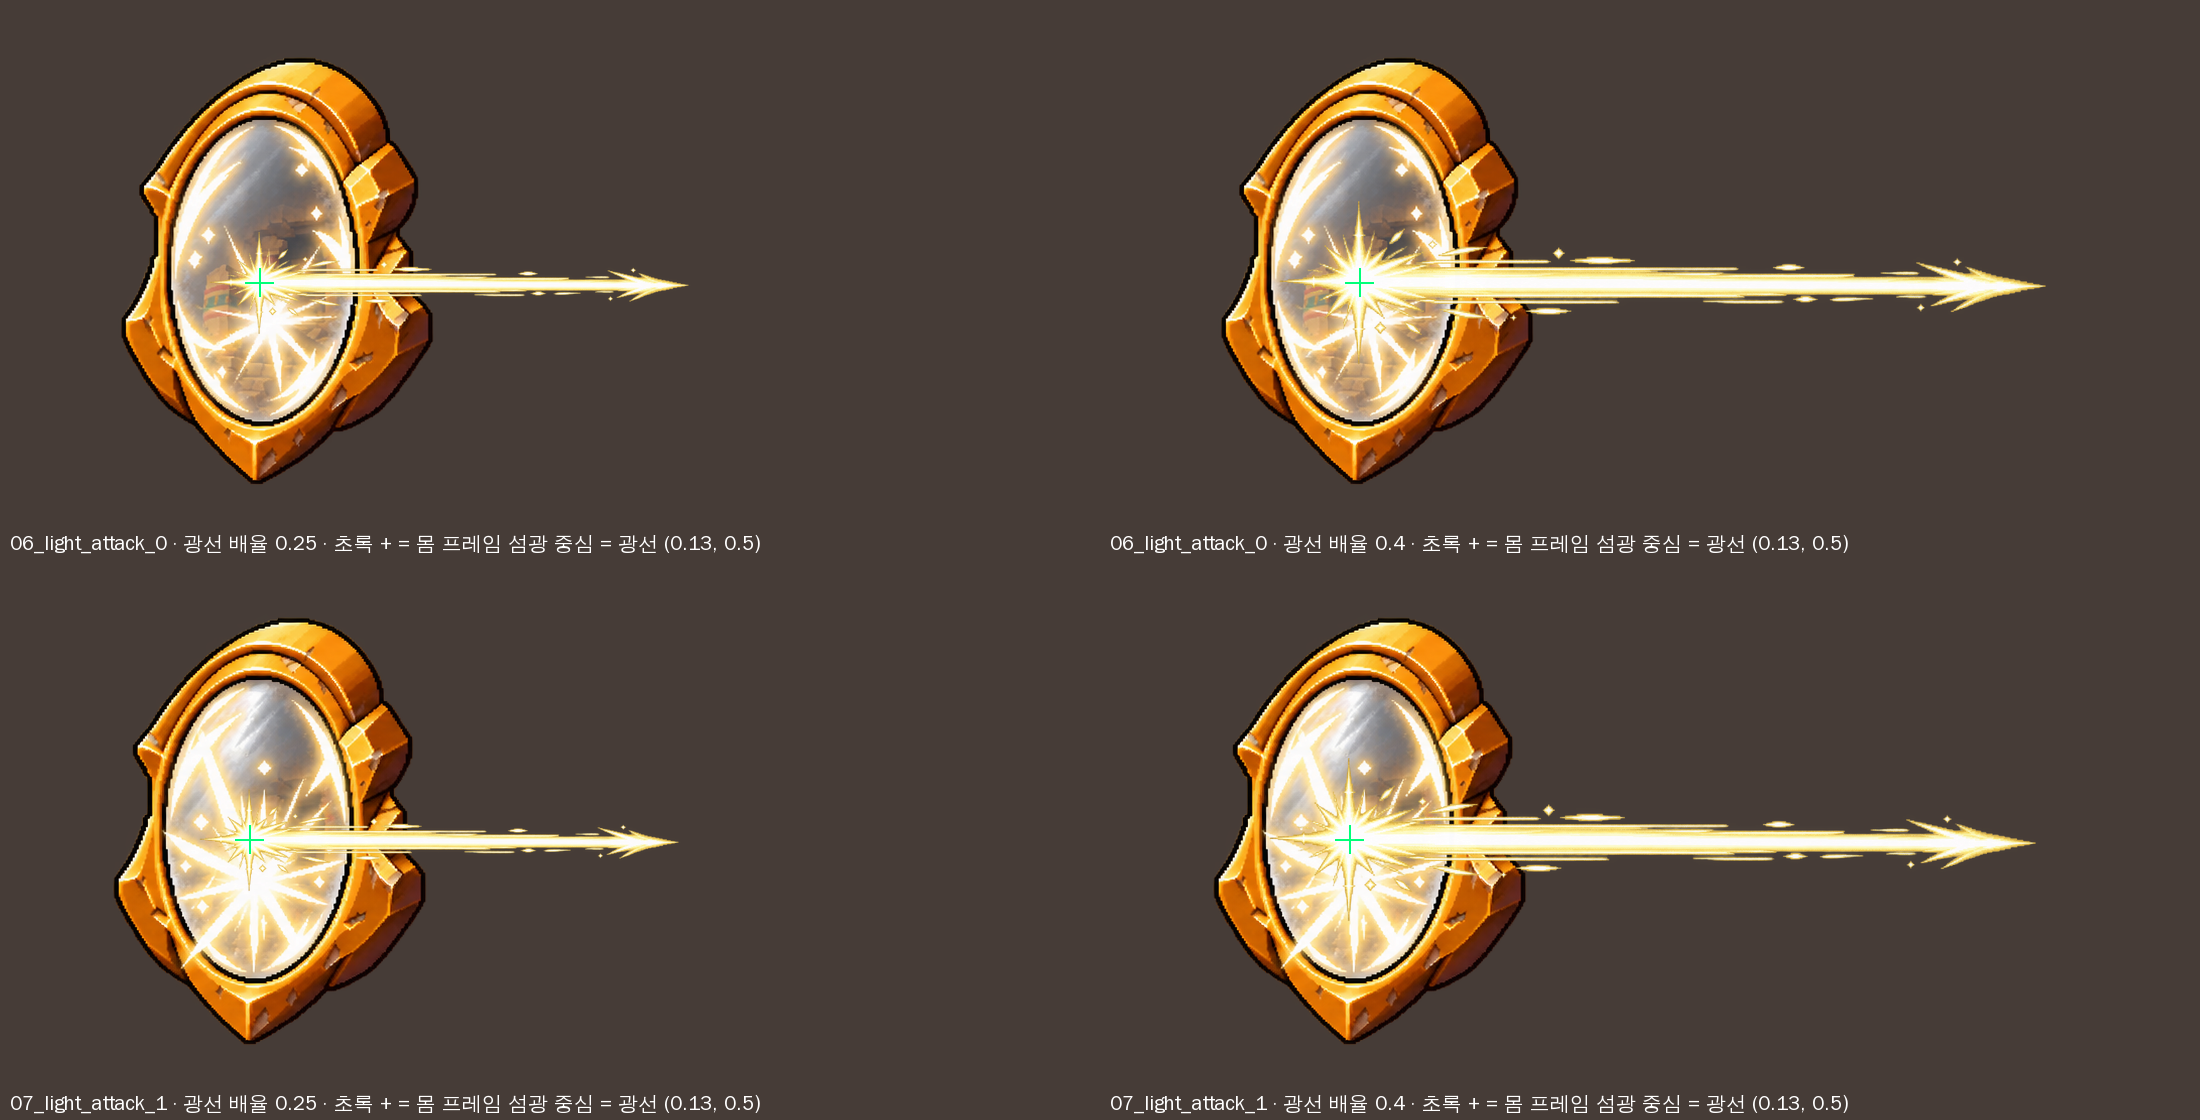
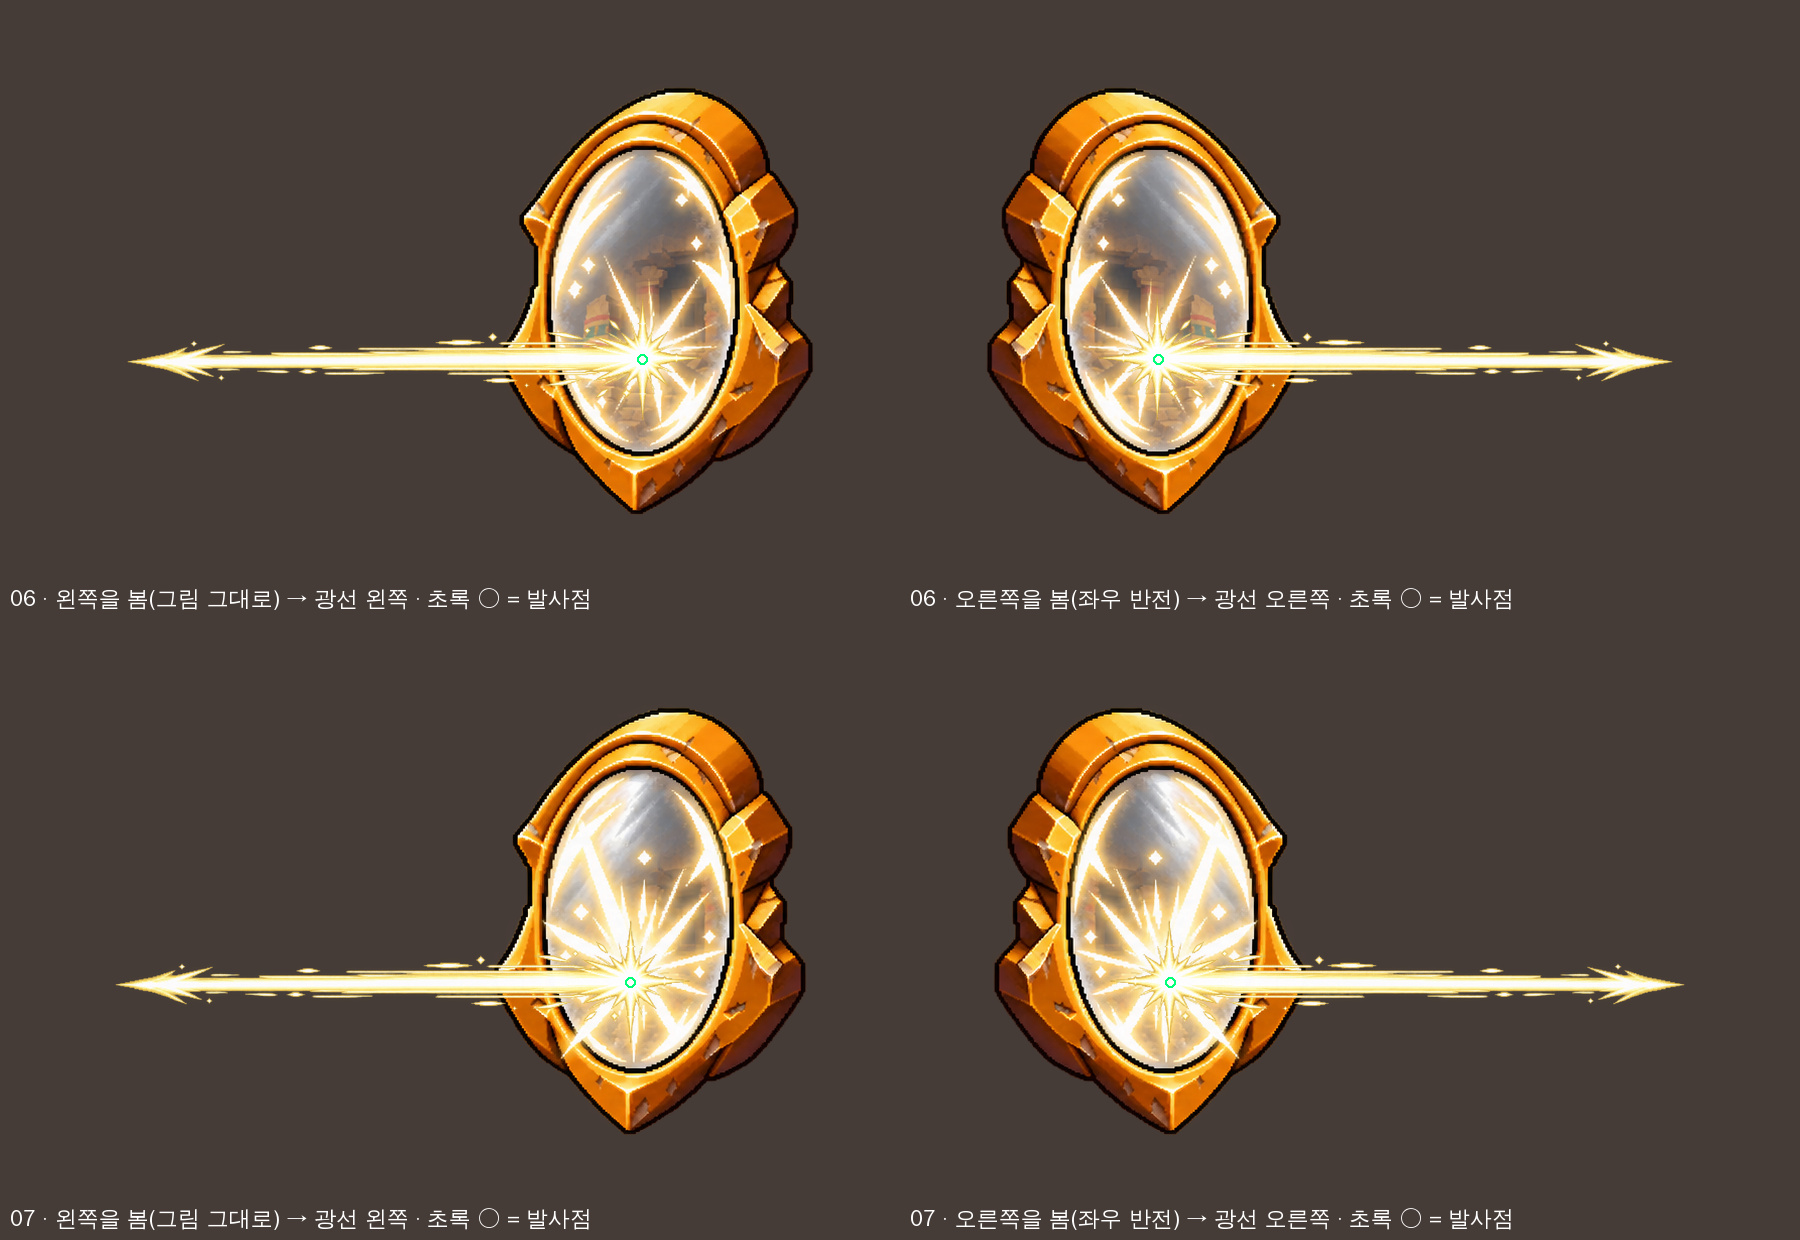
사막: 태양거울 광선 방향·발사점(사용자 표시대로), 몹 배치 추가(17 항아리·10 비석·P1 미정), 사막 검사 페이지 오류 필터 제거
- 광선: 몹이 보는 쪽 수평(그림대로면 정왼쪽, 좌우 반전, 회전 없음). 발사점 06 (222, 299)·07 (210, 302)
  (사용자 동그라미를 프레임 캔버스로 옮김). tools/art/sun-mirror-beam.py, 비교 그림 2장.
- 몹 등록표·등록표: 17 지하 도시 광장 봉인 항아리, 10 모래바람 분지 걸음 비석, P1 몹 추가(종 미정).
- desert-*.cjs: 'Internal Server Error' 페이지 오류를 무시하던 필터 제거(원인은 시험 ST가 AI Horde를 부르다 500. 시험 ST 설정을
  바꿔 없앰). 이제 모든 페이지 오류가 실패.

Claude-Session: https://claude.ai/code/session_01VEprA6JeTcQVX6tKD4oAcT

diff --git a/tools/maps/desert-mobs.py b/tools/maps/desert-mobs.py
@@ -24,10 +24,10 @@ SHEET = ROOT / 'docs/consult/desert/mobs'
 SLOTS = ['idle_0', 'idle_1', 'idle_2', 'special', 'prepare_0', 'prepare_1', 'attack_0', 'attack_1', 'hit', 'defeat']
 # folder, species id (meaning based, proposed), name, role, zones the plan lists it in (role zones; T1 = T1W·T1E, P3 = P3A·P3B)
 SPECIES = [
-    ('01_봉인항아리', 'desert_sealed_jar', '봉인 항아리', 'normal', ['T1', 'T2']),
+    ('01_봉인항아리', 'desert_sealed_jar', '봉인 항아리', 'normal', ['T1', 'T2', '17']),
     ('02_가죽방패병', 'desert_leather_shield', '가죽 방패병', 'normal', ['T1', 'P1']),
     ('03_봉인방패병', 'desert_sealed_shield', '봉인 방패병', 'normal', ['P1', 'P2']),
-    ('04_걸음비석', 'desert_walking_stela', '걸음 비석', 'normal', ['P1', 'P4']),
+    ('04_걸음비석', 'desert_walking_stela', '걸음 비석', 'normal', ['P1', 'P4', '10']),
     ('05_태양거울', 'desert_sun_mirror', '태양거울', 'normal', ['T2']),
     ('06_천칭파수꾼', 'desert_balance_sentinel', '천칭 파수꾼', 'normal', ['T3']),
     ('07_빈가면사제_장막형', 'desert_mask_priest_mantle', '빈 가면 사제 장막형', 'normal', ['T2']),
@@ -41,7 +41,11 @@ SPECIES = [
 # turned to the attack direction, cut at the first wall; length, hit and display scale are set in the game
 EFFECTS = {'desert_sun_mirror': [('beam', 'docs/art/desert-sun-mirror-motion-revisions-2026-10-16', 'beam')]}
 ZONES = {'T1': 'T1W·T1E 제례 앞뜰', 'T2': 'T2 무너진 봉헌품 회랑', 'T3': 'T3 신전 수호문 전당', 'P1': 'P1 고대 장례 미궁',
-         'P2': 'P2 왕면 열병 전실', 'P3': 'P3A·P3B 부왕 장례전', 'P4': 'P4 무너진 왕릉 하부실'}
+         'P2': 'P2 왕면 열병 전실', 'P3': 'P3A·P3B 부왕 장례전', 'P4': 'P4 무너진 왕릉 하부실',
+         # added by the user outside the seven combat zones (2026-10-19: "지하도시 광장에 항아리몹", "모래바람분지에 비석몹")
+         '17': '17 지하 도시 광장(사용자 추가)', '10': '10 모래바람 분지(사용자 추가)'}
+# zones whose extra species is still open (user: "고대 장례 미궁에 몹추가(미정)")
+OPEN = {'P1': 'P1 고대 장례 미궁: 몹 추가(종 미정, 사용자 2026-10-19)'}
 
 
 def sha(p): return hashlib.sha256(Path(p).read_bytes()).hexdigest()
@@ -122,6 +126,8 @@ def main():
         L.append(f"| {s['folder'].split('/')[-1]} | `{s['speciesId']}` | {s['name']} | {'보스' if s['role'] == 'boss' else '일반'} | "
                  f"{', '.join(ZONES[z] for z in s['zones'])} | {s['canvas'][0]}×{s['canvas'][1]} | {s['special']} | {s['attackFamily']} | "
                  f"y {s['measured']['footLineCandidate']}, x {s['measured']['footMiddleCandidate']} |")
+    L += ['', '사용자 추가 배치(2026-10-19): 봉인 항아리 → 17 지하 도시 광장, 걸음 비석 → 10 모래바람 분지. 7구역 밖이며 개체 수·좌표는 화면으로 확인받는다. '
+          '미정: ' + '; '.join(OPEN.values()) + '.']
     L += ['', '## 별도 효과 그림 (10장에 들지 않음, 120장에 세지 않음)', '']
     for s in out:
         for ename, e in s['effects'].items():

diff --git a/tools/art/sun-mirror-beam.py b/tools/art/sun-mirror-beam.py
@@ -1,0 +1,42 @@
+"""태양거울 광선 맞춤 확인 그림 (OPUS 사막 계획서 16절, 사용자 지시): 몸 프레임 06·07(light_attack) 위에 별도 광선 PNG를 얹는다.
+  - 방향: 거울이 보는 쪽으로 수평(사용자 화살표: 그림대로면 정왼쪽). 그림대로면 광선 PNG를 좌우 반전, 몹을 좌우 반전하면
+    광선은 원래(왼→오). 회전하지 않는다.
+  - 발사점: 사용자가 표시한 점(검은 동그라미, docs/consult/desert/mobs/user-beam-start.jpg)을 프레임 캔버스(440×494) 좌표로
+    옮긴 SOCKET. 광선 PNG의 기준점 (0.13, 0.5)을 여기에 맞춘다.
+Writes docs/consult/desert/mobs/sun-mirror-beam-origin.png.  python3 tools/art/sun-mirror-beam.py"""
+from pathlib import Path
+from PIL import Image, ImageDraw, ImageFont, ImageOps
+
+ROOT = Path(__file__).resolve().parents[2]
+BEAM = ROOT / 'docs/art/desert-sun-mirror-motion-revisions-2026-10-16/beam.png'
+ORIGIN = (0.13, 0.5)                  # beam.png manifest originApproxNormalized
+# launch socket per attack frame, canvas px of the art as drawn (facing left); from the user's circles: the outline box of
+# each mirrored frame in their screenshot against its alpha box here (scale 1.225), circle centres (312.7, 187.7)·(328.7, 951.7)
+SOCKET = {'06_light_attack_0': (222, 299), '07_light_attack_1': (210, 302)}
+K = 0.3                               # beam size in this picture only; the game sets its own
+
+
+def main():
+    F = ImageFont.truetype('/usr/share/fonts/truetype/wqy/wqy-zenhei.ttc', 22)
+    beam = Image.open(BEAM); b = beam.resize((round(beam.width * K), round(beam.height * K)), Image.LANCZOS); bl = ImageOps.mirror(b)
+    ox, oy = ORIGIN[0] * b.width, ORIGIN[1] * b.height
+    W, H = 900, 620; sheet = Image.new('RGB', (W * 2, H * 2))
+    for r, (f, (sx, sy)) in enumerate(SOCKET.items()):
+        fr = Image.open(ROOT / f'몹/사막/05_태양거울/{f}.png'); FW = fr.width
+        for c, right in enumerate((False, True)):
+            cv = Image.new('RGBA', (W, H), (70, 60, 55, 255))
+            off = (40, 60) if right else (W - 480, 60)
+            cv.alpha_composite(ImageOps.mirror(fr) if right else fr, off)
+            cx, cy = off[0] + (FW - sx if right else sx), off[1] + sy
+            if right: cv.alpha_composite(b, (round(cx - ox), round(cy - oy)))
+            else: cv.alpha_composite(bl, (round(cx - (bl.width - ox)), round(cy - oy)))
+            d = ImageDraw.Draw(cv)
+            d.ellipse([cx - 5, cy - 5, cx + 5, cy + 5], outline=(0, 255, 120), width=2)
+            d.text((10, H - 36), f"{f[:2]} · {'오른쪽을 봄(좌우 반전) → 광선 오른쪽' if right else '왼쪽을 봄(그림 그대로) → 광선 왼쪽'} · 초록 ○ = 발사점",
+                   fill='white', font=F)
+            sheet.paste(cv.convert('RGB'), (c * W, r * H))
+    sheet.save(ROOT / 'docs/consult/desert/mobs/sun-mirror-beam-origin.png')
+
+
+if __name__ == '__main__':
+    main()

diff --git a/tools/maps/desert-registry.py b/tools/maps/desert-registry.py
@@ -174,7 +174,9 @@ def main():
           '- 실행 ID: 01~04 `desert_golden_dunes`·`desert_buried_temple`·`desert_quiet_dunes`·`desert_dry_flats`(0.9.84의 `desert_01`~`04`는 저장 13판에서 옮김), '
           '11·17 `desert_city_gate`·`desert_city_plaza`(시험 저장의 `desert_11`·`desert_17`은 저장 14판에서 옮김).',
           '- 03·04 충돌: Opus 제작 + 사용자 수정, 사용자 승인.',
-          '- 문틀·지붕 가림: 그림 외곽선 픽셀로 딴 occluders(11 계단 입구 인방·양 문설주, 17 두 집 문). 사용자: 다 가림.', '',
+          '- 문틀·지붕 가림: 그림 외곽선 픽셀로 딴 occluders(11 계단 입구 인방·양 문설주, 17 두 집 문). 사용자: 다 가림.',
+          '- 몹 배치 추가(사용자 10-19): 17 지하 도시 광장에 봉인 항아리, 10 모래바람 분지에 걸음 비석. P1 고대 장례 미궁에 몹 추가(종 미정). 개체 수·좌표는 화면으로 확인.',
+          '- 태양거울 광선(사용자): 몹이 보는 쪽 수평(그림대로면 정왼쪽), 발사점은 사용자 표시점(06 (222, 299)·07 (210, 302), 프레임 캔버스).', '',
           '## 추천안 (사용자 보완 지시, 해당 단계 전에 화면과 함께 확인받아 확정)', '',
           '- P2 왕면 수문장: 첫 처치가 14 진입 관문, 처치 뒤 영구 해제, 13 퇴각 가능, 양쪽 출구 강제 잠금 없음. 확정 전 필수 처치 잠금 배포 안 함.',
           '- P3: P3A 수의형 사제(한 개체부터), P3B 왕좌 수문장 한 개체. 보스 복제 없음. P1 귀환·P4 분기·운반로 보존.',

diff --git a/docs/DESERT-MOBS.md b/docs/DESERT-MOBS.md
@@ -16,10 +16,10 @@
 
 | 폴더 | 종 ID(제안) | 이름 | 역할 | 후보 구역 | 캔버스 | 특수 칸 | 공격 이름(파일) | 발 기준선 후보(대기 세 장 맨 아래 행, 가운데 x) |
 |---|---|---|---|---|---|---|---|---|
-| 01_봉인항아리 | `desert_sealed_jar` | 봉인 항아리 | 일반 | T1W·T1E 제례 앞뜰, T2 무너진 봉헌품 회랑 | 476×538 | dormant | attack | y 453, x 222 |
+| 01_봉인항아리 | `desert_sealed_jar` | 봉인 항아리 | 일반 | T1W·T1E 제례 앞뜰, T2 무너진 봉헌품 회랑, 17 지하 도시 광장(사용자 추가) | 476×538 | dormant | attack | y 453, x 222 |
 | 02_가죽방패병 | `desert_leather_shield` | 가죽 방패병 | 일반 | T1W·T1E 제례 앞뜰, P1 고대 장례 미궁 | 558×477 | guard | charge | y 451, x 333 |
 | 03_봉인방패병 | `desert_sealed_shield` | 봉인 방패병 | 일반 | P1 고대 장례 미궁, P2 왕면 열병 전실 | 476×468 | guard | charge | y 426, x 356 |
-| 04_걸음비석 | `desert_walking_stela` | 걸음 비석 | 일반 | P1 고대 장례 미궁, P4 무너진 왕릉 하부실 | 459×435 | guard | slam | y 413, x 266 |
+| 04_걸음비석 | `desert_walking_stela` | 걸음 비석 | 일반 | P1 고대 장례 미궁, P4 무너진 왕릉 하부실, 10 모래바람 분지(사용자 추가) | 459×435 | guard | slam | y 413, x 266 |
 | 05_태양거울 | `desert_sun_mirror` | 태양거울 | 일반 | T2 무너진 봉헌품 회랑 | 440×494 | guard | light_attack | y 470, x 218 |
 | 06_천칭파수꾼 | `desert_balance_sentinel` | 천칭 파수꾼 | 일반 | T3 신전 수호문 전당 | 507×520 | guard | slam | y 409, x 342 |
 | 07_빈가면사제_장막형 | `desert_mask_priest_mantle` | 빈 가면 사제 장막형 | 일반 | T2 무너진 봉헌품 회랑 | 517×470 | guard | seal_cast | y 413, x 251 |
@@ -28,6 +28,8 @@
 | 10_신전수문장 | `desert_temple_warden` | 신전 수문장 | 보스 | T3 신전 수호문 전당 | 489×493 | guard | crush | y 449, x 308 |
 | 11_왕좌수문장 | `desert_throne_warden` | 왕좌 수문장 | 보스 | P3A·P3B 부왕 장례전 | 573×530 | guard | earth_press | y 451, x 324 |
 | 12_파릉수문장 | `desert_broken_tomb_warden` | 파릉 수문장 | 보스 | P4 무너진 왕릉 하부실 | 494×486 | guard | grasp | y 385, x 231 |
+
+사용자 추가 배치(2026-10-19): 봉인 항아리 → 17 지하 도시 광장, 걸음 비석 → 10 모래바람 분지. 7구역 밖이며 개체 수·좌표는 화면으로 확인받는다. 미정: P1 고대 장례 미궁: 몹 추가(종 미정, 사용자 2026-10-19).
 
 ## 별도 효과 그림 (10장에 들지 않음, 120장에 세지 않음)
 

diff --git a/docs/DESERT-COMBAT-SURVEY.md b/docs/DESERT-COMBAT-SURVEY.md
@@ -58,4 +58,6 @@ ST가 떠 있고 확장이 설치된 상태에서 `export NODE_PATH=/opt/node-to
 
 - 광선의 끝은 **한 함수**가 정한다: 발사 소켓에서 공격 방향으로 `wall()`을 따라가 처음 막히는 점. 그림은 그 점에서 잘라 그리고(늘리지 않음), 피해 판정도 같은 점까지만 본다. 둘이 다른 값을 쓰지 않는다.
 - 검사: 벽 앞 대상은 맞고, 같은 줄 **벽 너머 대상은 피해 0**. 그림이 잘린 x·y와 판정 끝 x·y가 같은지(화면 캡처의 광선 끝 픽셀과 판정 끝 좌표 비교).
-- 발사 기준점: `beam.png`의 (0.13, 0.5)는 그림상의 점이다. 몸 프레임 06·07의 섬광 중심(캔버스 440×494에서 약 (220, 253)·(210, 250))에 맞춘 이미지 비교는 [`consult/desert/mobs/sun-mirror-beam-origin.png`](consult/desert/mobs/sun-mirror-beam-origin.png). 게임 화면(실제 배율·좌우 반전·방향 회전)에서 다시 확인받는다.
+- 방향: 거울 면은 그림에서 앞·왼쪽을 본다(오른쪽·위에 테 두께가 보이고, 07 섬광 긴 줄기가 유리 왼쪽 아래로 나감). 광선은 **몹이 보는 쪽으로 수평**(사용자가 그어 준 화살표: 정왼쪽). 그림대로(왼쪽을 봄)면 `beam.png`를 좌우 반전해 왼쪽으로, 몹을 좌우 반전해 오른쪽을 보면 원래 방향(왼→오) 그대로. 회전하지 않는다(위아래 빛이 뒤집히지 않게). 처음 합성은 광선을 오른쪽으로 쏴서 몹 방향과 반대였다(틀림).
+- 그래서 피해 판정도 보는 쪽 수평 한 줄이다: 몹은 공격 전에 대상이 있는 쪽으로 돌아서고(준비 0 동안), 준비 1에서 방향이 고정된다. 몹이 보는 방향, 광선이 보이는 방향, 판정 방향이 같은 값(`faceR`)에서 나온다.
+- 발사 기준점: `beam.png`의 (0.13, 0.5)는 그림상의 점이다. 실제 발사점은 사용자가 표시한 점(섬광 아래 별 중심, `consult/desert/mobs/user-beam-start.jpg`): 몸 프레임 캔버스 440×494에서 06 (222, 299)·07 (210, 302), 반전하면 x를 440에서 뺀다(`tools/art/sun-mirror-beam.py` SOCKET). 처음에 쓴 흰 섬광 무게중심 (220, 253)은 약 50px 높아 틀렸다. 이미지 비교는 [`consult/desert/mobs/sun-mirror-beam-origin.png`](consult/desert/mobs/sun-mirror-beam-origin.png), 각도 후보는 [`sun-mirror-beam-direction.png`](consult/desert/mobs/sun-mirror-beam-direction.png). 게임 화면(실제 배율)에서 다시 확인받는다.

diff --git a/docs/DESERT-REGISTRY.md b/docs/DESERT-REGISTRY.md
@@ -105,6 +105,8 @@
 - 실행 ID: 01~04 `desert_golden_dunes`·`desert_buried_temple`·`desert_quiet_dunes`·`desert_dry_flats`(0.9.84의 `desert_01`~`04`는 저장 13판에서 옮김), 11·17 `desert_city_gate`·`desert_city_plaza`(시험 저장의 `desert_11`·`desert_17`은 저장 14판에서 옮김).
 - 03·04 충돌: Opus 제작 + 사용자 수정, 사용자 승인.
 - 문틀·지붕 가림: 그림 외곽선 픽셀로 딴 occluders(11 계단 입구 인방·양 문설주, 17 두 집 문). 사용자: 다 가림.
+- 몹 배치 추가(사용자 10-19): 17 지하 도시 광장에 봉인 항아리, 10 모래바람 분지에 걸음 비석. P1 고대 장례 미궁에 몹 추가(종 미정). 개체 수·좌표는 화면으로 확인.
+- 태양거울 광선(사용자): 몹이 보는 쪽 수평(그림대로면 정왼쪽), 발사점은 사용자 표시점(06 (222, 299)·07 (210, 302), 프레임 캔버스).
 
 ## 추천안 (사용자 보완 지시, 해당 단계 전에 화면과 함께 확인받아 확정)
 
